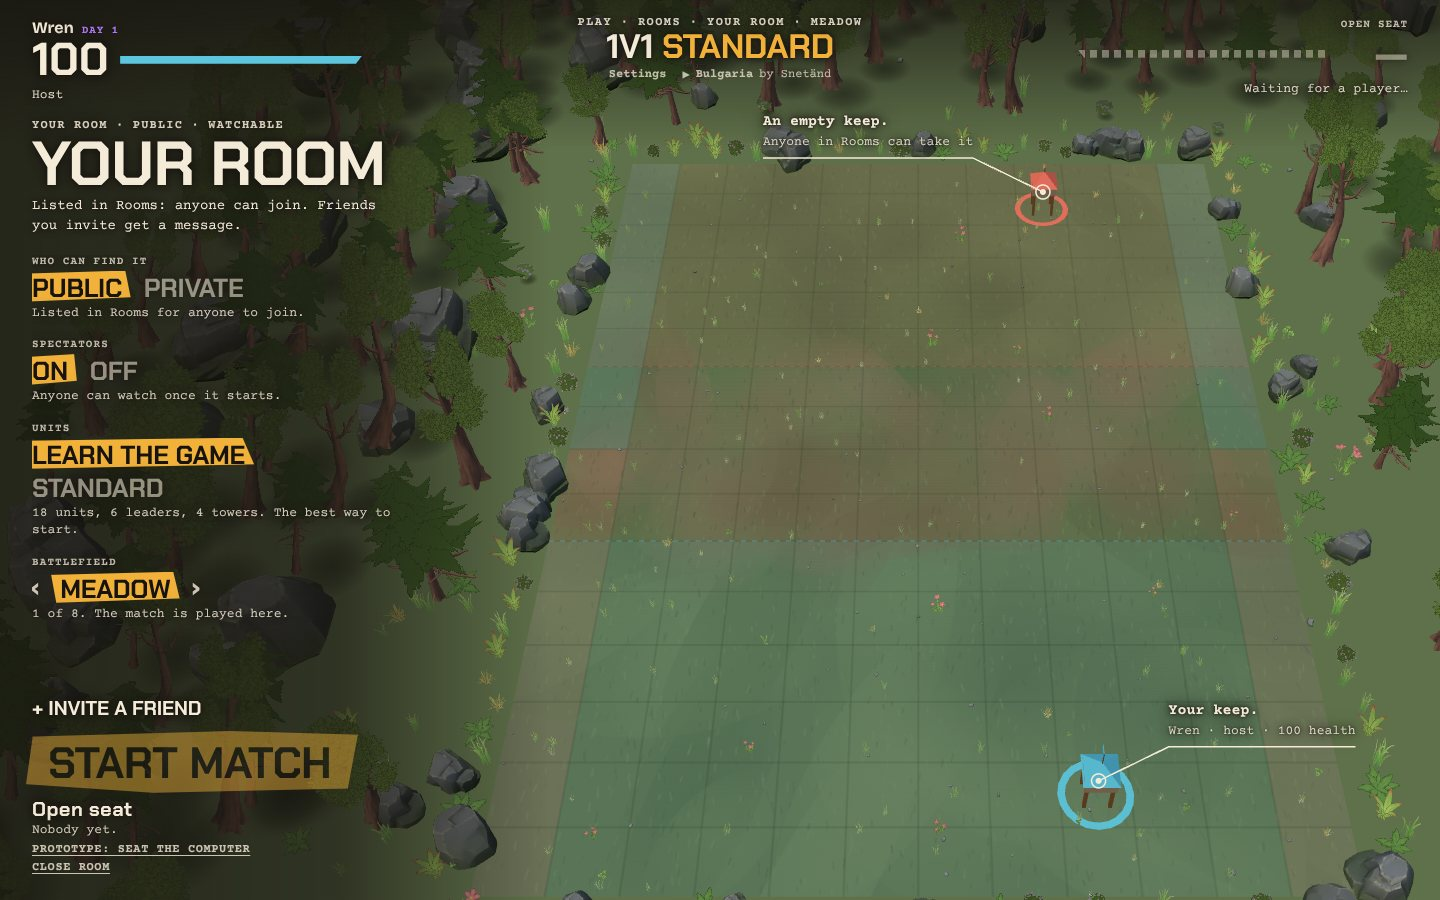
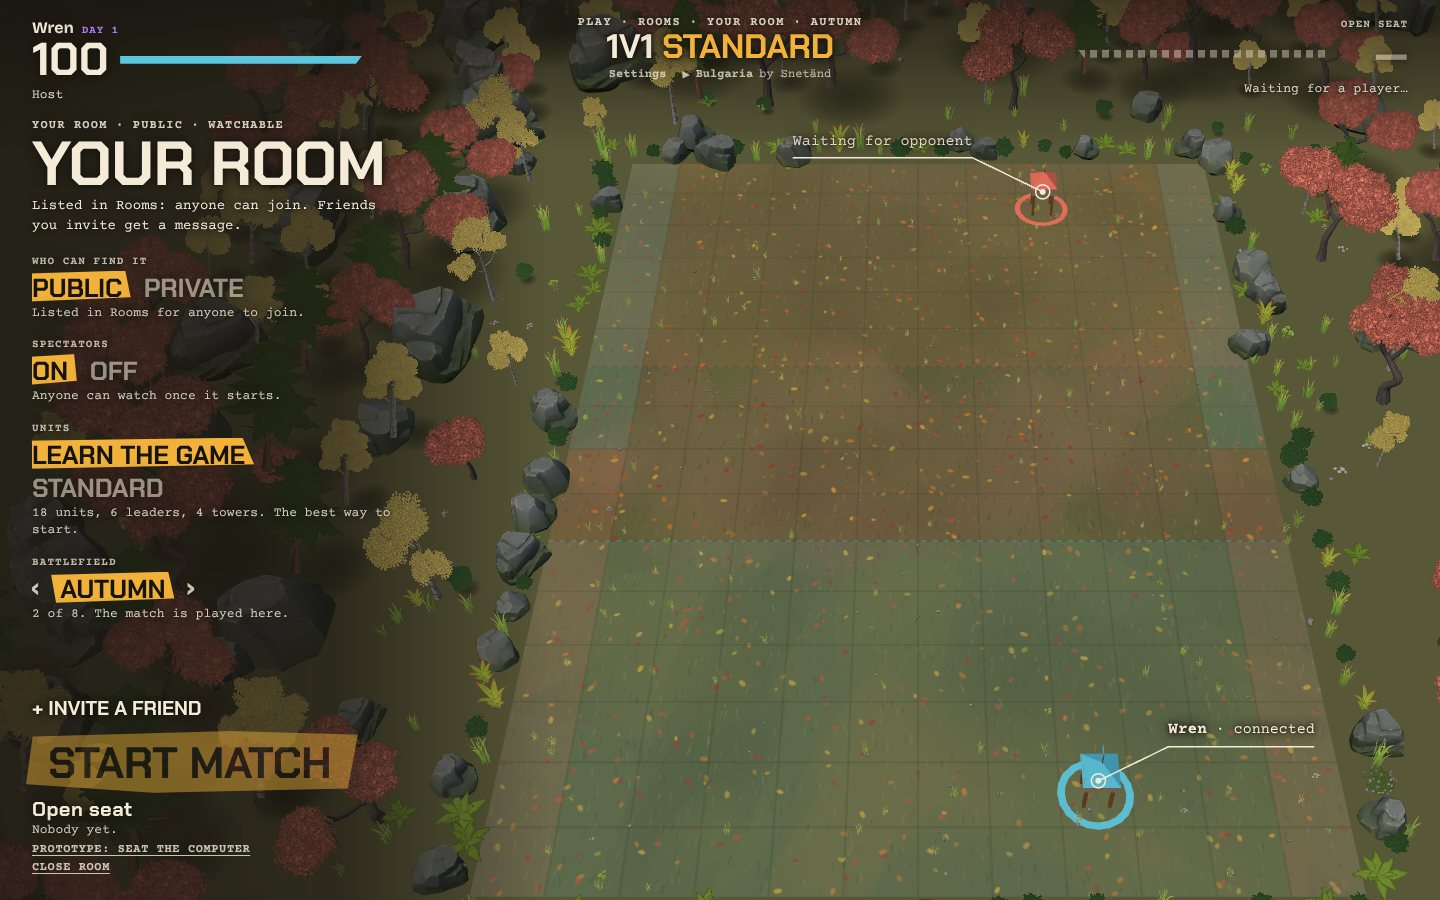
Diorama room: the keeps say who's in the game; no camera jump between views
The keeps' notes now show the players: "Wren · connected" on yours, "Pebble ·
connected" or "Waiting for opponent…" on theirs.

fitView no longer measures the board in the angled and ground views (it fought
the zoom, then jumped about 100 px coming back from Angled). It fits in the top
and tilted views and blends from that fit to none between Tilted and Angled.

HANDOFF.md: the plan for the island flying into the battlefield.

Claude-Session: https://claude.ai/code/session_01Evp91q68TmWny2nT7WLFKn

diff --git a/design/diorama/battle.html b/design/diorama/battle.html
@@ -207,7 +207,9 @@ body.fighting .scrim.left { width: calc(var(--pw) + 60px); opacity: .7; }
 .go.room .say small { max-width: none; }
 .side .hp .bar.empty { background: repeating-linear-gradient(90deg, rgba(244,236,216,.5) 0 7px, transparent 7px 12px); opacity: .8; }
 .knote { position: fixed; z-index: 3; transform: translate(0, -100%); padding-bottom: 7px; width: max-content; max-width: 320px; font: 400 15px/1.3 var(--type); text-shadow: var(--halo); pointer-events: none; }
-.knote b { font-weight: 700; } .knote small { display: block; margin-top: 3px; font-size: 13px; opacity: .85; }
+.knote b { font-weight: 700; font-size: 16px; }
+.knote .wait { opacity: .85; } .knote .wait::after { content: ""; animation: dots 1.4s steps(4) infinite; }
+@keyframes dots { 0% { content: ""; } 25% { content: "."; } 50% { content: ".."; } 75% { content: "..."; } }
 .fdot { width: 10px; height: 10px; border-radius: 50%; background: var(--saffron); justify-self: center; }
 .fdot.off { background: none; border: 1.5px solid var(--cream-2); }
 .urow .nm .ttl { font: 700 10px var(--type); font-style: normal; letter-spacing: .08em; text-transform: uppercase; margin-left: 4px; }
@@ -14870,9 +14872,8 @@ function roomNotes() {
     const n = $('kn' + sd); n.hidden = !show; if (!show) continue;
     const t = m.towers[sd]; if (!t) { n.hidden = true; continue; }
     const [x, y] = board.screenAt(t.col, t.row, sd === ME ? 2.4 : 2.6);
-    n.innerHTML = sd === ME ? `<b>Your keep.</b><small>Wren · ${room.role === 'host' ? 'host' : 'joined'} · 100 health</small>`
-      : room.who ? `<b>${esc(foe.name)}’s keep.</b><small>${foe.ai ? 'The game’s AI' : `${esc(foe.title)} · ready`} · 100 health</small>`
-      : `<b>An empty keep.</b><small>${room.pub ? 'Anyone in Rooms can take it' : 'For a friend you invite'}</small>`;
+    // who is in the game: each keep carries its player's name and whether they're connected (the owner, 2026-11-08)
+    n.innerHTML = sd === ME ? `<b>Wren</b> · connected` : room.who ? `<b>${esc(room.who.name)}</b> · connected` : '<span class="wait">Waiting for opponent</span>';
     const w = n.offsetWidth, left = sd === FOE, lx = left ? x - 70 - w : x + 70, ly = y - 34;
     n.style.left = lx + 'px'; n.style.top = ly + 'px';
     roomLines[sd] = { pts: [[x, y], [left ? lx + w : lx, ly], [left ? lx : lx + w, ly]] };
@@ -15213,18 +15214,27 @@ function safeRect() {
   const c = $('col').getBoundingClientRect(), top = Math.max($('you').getBoundingClientRect().bottom, $('round').getBoundingClientRect().bottom);
   return { x0: c.right + 28, x1: innerWidth - 24, y0: top + 14, y1: innerHeight - 10 };
 }
+let fitHeld = null; // the last fit measured in the top or tilted view: { k, dx, dy } (the board's middle from the window's)
 function fitView(dt) {
   const cam3 = board.cam3; if (!cam3) return;
   const W = innerWidth, H = innerHeight, R = safeRect(), z = board.camera.zoom();
   const base = (p) => [p[0] / fit.k + fit.ox, p[1] / fit.k + fit.oy];
-  let k = 1, cx = W / 2, cy = H / 2;
-  if (z < 1.2) {
+  let k, cx, cy;
+  if (z <= 1.001 || !fitHeld) {
+    // the top and tilted views (and anything between): measure the board's corners and fit them into the free space
     const C = Game.COLS - 1, Rw = Game.ROWS - 1;
     const pts = [[0, 0, 0], [C, 0, 0], [0, Rw, 0], [C, Rw, 0], [0, 0, 5], [C, 0, 5]].map(([c, r, h]) => base(board.screenAt(c, r, h)));
     let x0 = Math.min(...pts.map(p => p[0])), x1 = Math.max(...pts.map(p => p[0])), y0 = Math.min(...pts.map(p => p[1])), y1 = Math.max(...pts.map(p => p[1]));
     const px = (x1 - x0) / C * 0.6, py = (y1 - y0) / Rw * 0.6; x0 -= px; x1 += px; y0 -= py; y1 += py;
     k = Math.min(1.08, (R.x1 - R.x0) / (x1 - x0), (R.y1 - R.y0) / (y1 - y0));
     cx = (x0 + x1) / 2; cy = (y0 + y1) / 2;
+    if (z <= 1.001) fitHeld = { k, dx: cx - W / 2, dy: cy - H / 2 };
+  } else {
+    // the closer views: never measured (the board runs off the screen, so a fit would fight the zoom). From the tilted
+    // fit, blend to no scaling and the camera's own middle as the zoom goes from tilted (1) to angled (2): continuous
+    // both ways, so there is no jump at any level
+    const w = Math.min(1, z - 1), h = fitHeld;
+    k = h.k + (1 - h.k) * w; cx = W / 2 + h.dx * (1 - w); cy = H / 2 + h.dy * (1 - w);
   }
   const tox = cx - (R.x0 + R.x1) / 2 / k, toy = cy - (R.y0 + R.y1) / 2 / k;
   const a = dt == null ? 1 : 1 - Math.exp(-dt * 9);
@@ -15287,6 +15297,7 @@ window.__battle = { board, get m() { return m; }, get phase() { return phase; },
   paint, pressReady, choose: (k) => { pickSel = k; choose(); }, fight: () => { ready = [true, true]; fight(); },
   skip: () => { if (phase === 'battle') { while (bt.step()) absorb(); fx = []; endFight(); } }, next: () => { if (m.over) { phase = 'end'; paint(); } else startRound(); },
   seat: (n) => seat(n === 'computer' ? COMPUTER : FRIENDS.find(f => f.name === n) || null), openRoom, newMatch,
+  fit, zoom: () => board.camera.zoom(),
   holdAi: () => { aiReadyAt = 1e15; ready[FOE] = false; paint(); }, // (shots: the computer still deploying)
   openSheet, unitNote, freeTiles: () => { const out = []; for (const row of Game.zoneRows(ME)) for (let col = 1; col < Game.COLS - 1; col++) if (!Game.occupied(m, ME, col, row)) out.push([col, row]); return out; } };
 

diff --git a/design/diorama/src/battle.js b/design/diorama/src/battle.js
@@ -349,9 +349,8 @@ function roomNotes() {
     const n = $('kn' + sd); n.hidden = !show; if (!show) continue;
     const t = m.towers[sd]; if (!t) { n.hidden = true; continue; }
     const [x, y] = board.screenAt(t.col, t.row, sd === ME ? 2.4 : 2.6);
-    n.innerHTML = sd === ME ? `<b>Your keep.</b><small>Wren · ${room.role === 'host' ? 'host' : 'joined'} · 100 health</small>`
-      : room.who ? `<b>${esc(foe.name)}’s keep.</b><small>${foe.ai ? 'The game’s AI' : `${esc(foe.title)} · ready`} · 100 health</small>`
-      : `<b>An empty keep.</b><small>${room.pub ? 'Anyone in Rooms can take it' : 'For a friend you invite'}</small>`;
+    // who is in the game: each keep carries its player's name and whether they're connected (the owner, 2026-11-08)
+    n.innerHTML = sd === ME ? `<b>Wren</b> · connected` : room.who ? `<b>${esc(room.who.name)}</b> · connected` : '<span class="wait">Waiting for opponent</span>';
     const w = n.offsetWidth, left = sd === FOE, lx = left ? x - 70 - w : x + 70, ly = y - 34;
     n.style.left = lx + 'px'; n.style.top = ly + 'px';
     roomLines[sd] = { pts: [[x, y], [left ? lx + w : lx, ly], [left ? lx : lx + w, ly]] };
@@ -692,18 +691,27 @@ function safeRect() {
   const c = $('col').getBoundingClientRect(), top = Math.max($('you').getBoundingClientRect().bottom, $('round').getBoundingClientRect().bottom);
   return { x0: c.right + 28, x1: innerWidth - 24, y0: top + 14, y1: innerHeight - 10 };
 }
+let fitHeld = null; // the last fit measured in the top or tilted view: { k, dx, dy } (the board's middle from the window's)
 function fitView(dt) {
   const cam3 = board.cam3; if (!cam3) return;
   const W = innerWidth, H = innerHeight, R = safeRect(), z = board.camera.zoom();
   const base = (p) => [p[0] / fit.k + fit.ox, p[1] / fit.k + fit.oy];
-  let k = 1, cx = W / 2, cy = H / 2;
-  if (z < 1.2) {
+  let k, cx, cy;
+  if (z <= 1.001 || !fitHeld) {
+    // the top and tilted views (and anything between): measure the board's corners and fit them into the free space
     const C = Game.COLS - 1, Rw = Game.ROWS - 1;
     const pts = [[0, 0, 0], [C, 0, 0], [0, Rw, 0], [C, Rw, 0], [0, 0, 5], [C, 0, 5]].map(([c, r, h]) => base(board.screenAt(c, r, h)));
     let x0 = Math.min(...pts.map(p => p[0])), x1 = Math.max(...pts.map(p => p[0])), y0 = Math.min(...pts.map(p => p[1])), y1 = Math.max(...pts.map(p => p[1]));
     const px = (x1 - x0) / C * 0.6, py = (y1 - y0) / Rw * 0.6; x0 -= px; x1 += px; y0 -= py; y1 += py;
     k = Math.min(1.08, (R.x1 - R.x0) / (x1 - x0), (R.y1 - R.y0) / (y1 - y0));
     cx = (x0 + x1) / 2; cy = (y0 + y1) / 2;
+    if (z <= 1.001) fitHeld = { k, dx: cx - W / 2, dy: cy - H / 2 };
+  } else {
+    // the closer views: never measured (the board runs off the screen, so a fit would fight the zoom). From the tilted
+    // fit, blend to no scaling and the camera's own middle as the zoom goes from tilted (1) to angled (2): continuous
+    // both ways, so there is no jump at any level
+    const w = Math.min(1, z - 1), h = fitHeld;
+    k = h.k + (1 - h.k) * w; cx = W / 2 + h.dx * (1 - w); cy = H / 2 + h.dy * (1 - w);
   }
   const tox = cx - (R.x0 + R.x1) / 2 / k, toy = cy - (R.y0 + R.y1) / 2 / k;
   const a = dt == null ? 1 : 1 - Math.exp(-dt * 9);
@@ -766,5 +774,6 @@ window.__battle = { board, get m() { return m; }, get phase() { return phase; },
   paint, pressReady, choose: (k) => { pickSel = k; choose(); }, fight: () => { ready = [true, true]; fight(); },
   skip: () => { if (phase === 'battle') { while (bt.step()) absorb(); fx = []; endFight(); } }, next: () => { if (m.over) { phase = 'end'; paint(); } else startRound(); },
   seat: (n) => seat(n === 'computer' ? COMPUTER : FRIENDS.find(f => f.name === n) || null), openRoom, newMatch,
+  fit, zoom: () => board.camera.zoom(),
   holdAi: () => { aiReadyAt = 1e15; ready[FOE] = false; paint(); }, // (shots: the computer still deploying)
   openSheet, unitNote, freeTiles: () => { const out = []; for (const row of Game.zoneRows(ME)) for (let col = 1; col < Game.COLS - 1; col++) if (!Game.occupied(m, ME, col, row)) out.push([col, row]); return out; } };

diff --git a/design/diorama/src/battle.html b/design/diorama/src/battle.html
@@ -207,7 +207,9 @@ body.fighting .scrim.left { width: calc(var(--pw) + 60px); opacity: .7; }
 .go.room .say small { max-width: none; }
 .side .hp .bar.empty { background: repeating-linear-gradient(90deg, rgba(244,236,216,.5) 0 7px, transparent 7px 12px); opacity: .8; }
 .knote { position: fixed; z-index: 3; transform: translate(0, -100%); padding-bottom: 7px; width: max-content; max-width: 320px; font: 400 15px/1.3 var(--type); text-shadow: var(--halo); pointer-events: none; }
-.knote b { font-weight: 700; } .knote small { display: block; margin-top: 3px; font-size: 13px; opacity: .85; }
+.knote b { font-weight: 700; font-size: 16px; }
+.knote .wait { opacity: .85; } .knote .wait::after { content: ""; animation: dots 1.4s steps(4) infinite; }
+@keyframes dots { 0% { content: ""; } 25% { content: "."; } 50% { content: ".."; } 75% { content: "..."; } }
 .fdot { width: 10px; height: 10px; border-radius: 50%; background: var(--saffron); justify-self: center; }
 .fdot.off { background: none; border: 1.5px solid var(--cream-2); }
 .urow .nm .ttl { font: 700 10px var(--type); font-style: normal; letter-spacing: .08em; text-transform: uppercase; margin-left: 4px; }

diff --git a/design/diorama/HANDOFF.md b/design/diorama/HANDOFF.md
@@ -289,9 +289,9 @@ when the match starts the same column turns into the deploy panel, with no scree
   an **open seat**: "Open seat", a dashed bar where their health will be, "Waiting for a player…" (or "Pebble is on the
   way…" once an invite is accepted); when someone takes it, their name, title and health, with a saffron HERE tag.
   Top middle: `Play · Rooms · your room · Meadow`, 1V1 STANDARD (or 1V1 RANKED · BO3), Settings and the music line.
-- **The keeps carry notes** (the Diorama's dot, line and typed label): "Your keep. Wren · host · 100 health" and across
-  the board "An empty keep. Anyone in Rooms can take it" (private: "For a friend you invite"), which becomes
-  "Pebble's keep." when they join.
+- **The keeps say who is in the game** (the owner, 2026-11-08): a dot on each keep, a line, and one typed line: your
+  keep always "Wren · connected"; theirs "Pebble · connected", or "Waiting for opponent…" while the seat is open. (Room
+  only for now; open question: keep them through the match, where "connected" would matter online?)
 - **The column:** a kicker (`Your room · public · watchable`), YOUR ROOM huge, a status line, then New room's rows of
   words: Who can find it (Public / Private), Spectators (On / Off), Units (Learn the game / Standard, with the game's
   pack note; ranked: Standard only, with the series rule), Battlefield (‹ Meadow ›, changes the board at once), then
@@ -307,3 +307,32 @@ when the match starts the same column turns into the deploy panel, with no scree
   them. The match uses the room's Units pack for real (`matchArgs`: the game's matchOff / matchChars / offTowers).
   After the match, Rematch or Back to the room. URL: `?room=host|guest|ranked|private|none` (none: straight into a
   match).
+
+### Fixed: the camera jump between views (2026-11-08)
+
+The owner saw the camera glitch on a view switch. Cause: `fitView` measured the board's corners in every view, so going
+in past Tilted it fought the zoom, then flipped to "follow the camera" at zoom 1.2, a one-frame jump of about 100 px
+coming back from Angled. Now it measures only in the Top and Tilted views and, between Tilted and Angled, blends from
+that last fit to no fit at all, so it is continuous both ways (`fitHeld`; checked frame by frame through Top, Tilted,
+Angled and back: the 101 px jump is down to 19 px of ordinary glide).
+
+## Next: the island flies into the battlefield (planned, not started)
+
+The owner's wish (2026-11-08): pressing anything that leads to this screen (Create room, Join, Vs computer; not Start
+match) zooms in on the menu's floating island, moves it over and fades it into the real board. The plan:
+1. **Both scenes already show the same map.** The island is the real Standard map, 14 by 18, keeps at col 8 row 16 and
+   col 5 row 1, the same as the board. So a tile on the island and a tile on the board can be matched one to one.
+2. **Preload the board while the player is on Play / Rooms / New room:** create the match's Render3D off screen (hidden
+   canvas) so `models/scenery.bin` and the models are loaded before the click; the transition must never wait on a fetch.
+3. **On the click:** the menu's camera (orthographic, `VIEWS` in `src/diorama.js`) glides from its view to a pose that
+   puts the island's four corners where the board's corners will be in the tilted view (we know both: `screenAt` on the
+   board, the island's own projection). The words of the menu fade out as it starts.
+4. **Over the last third:** the island's slab sides and its miniatures sink (they already can), the board's canvas
+   fades in on top, already on the matching pose, and the scenery grows out from the board's edges (a fade, or a
+   radial mask widening). Then the room's words come in. About 1 to 1.2 s in all; reduced motion: a plain crossfade.
+5. **Then dispose the menu's renderer** (two WebGL contexts only for that second; on phones, if that's too heavy,
+   the plain crossfade).
+
+The hard part is matching an orthographic camera to the board's perspective one; the crossfade hides a small
+mismatch, so matching the corners is enough. Doing it means the room and the battle screen move into the game proper
+(`src/diorama.js` owns the menu's scene), so it belongs with that integration step. A good day's session.
